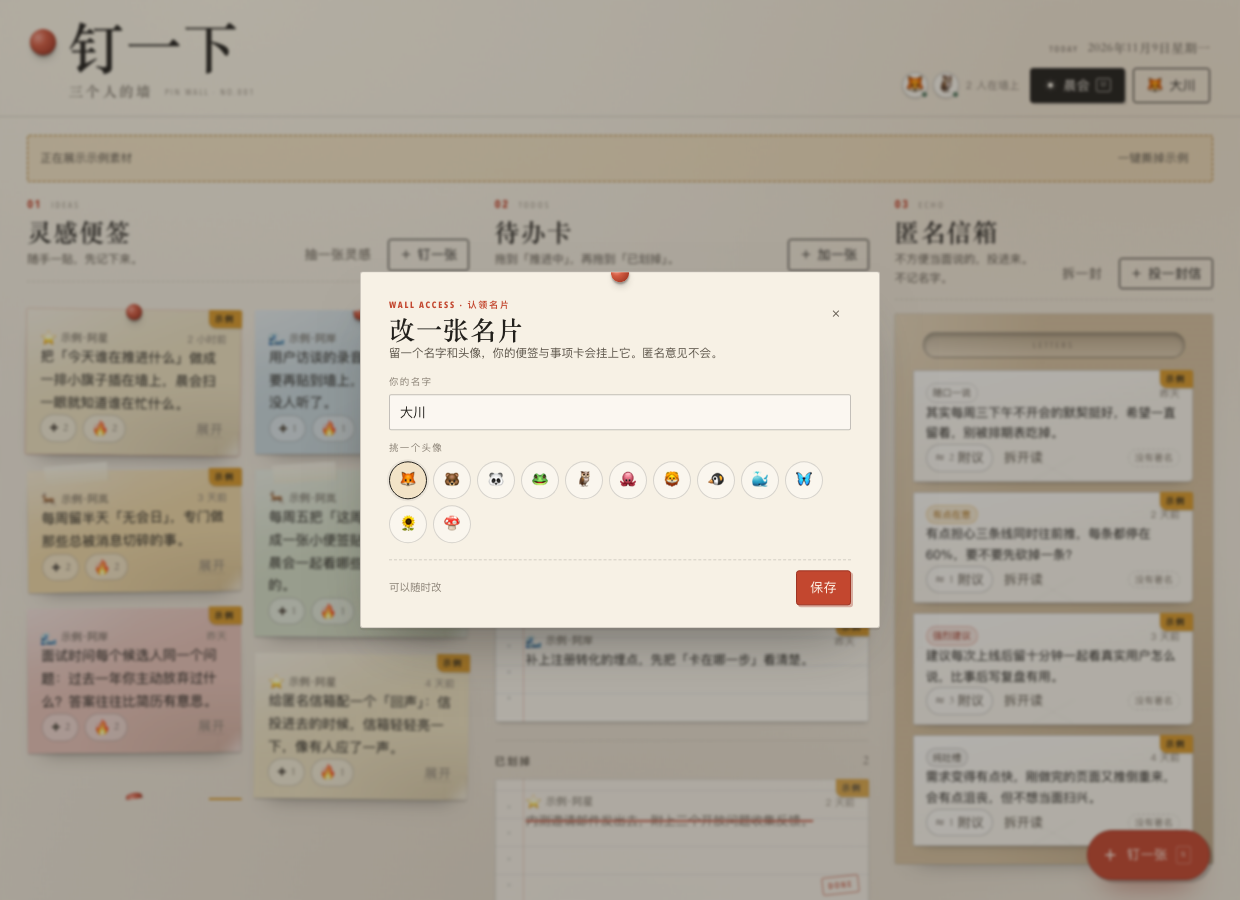
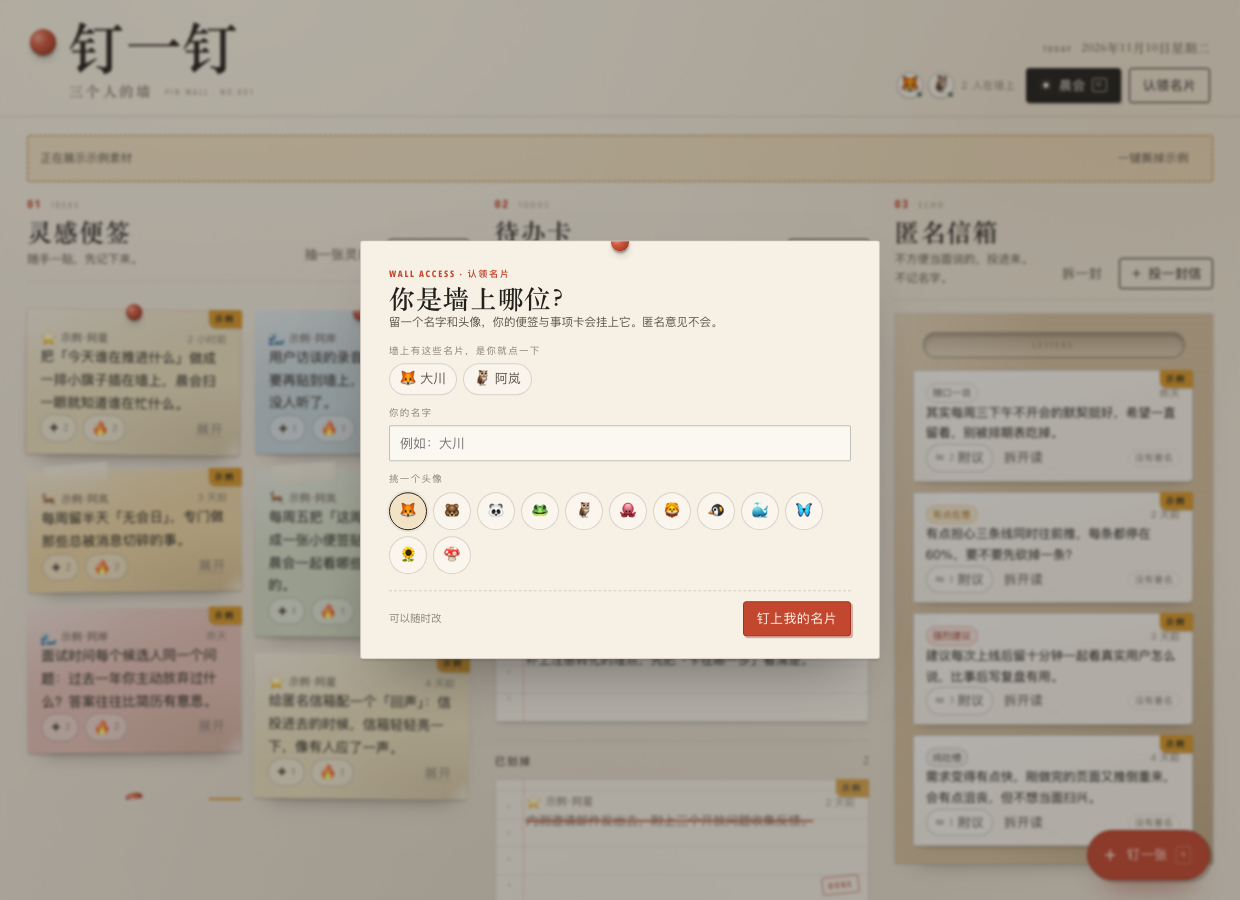
Rename product to 钉一钉 / Ding Wall, refresh screenshots and install docs

diff --git a/client.js b/client.js
@@ -1,5 +1,5 @@
 /*
- * 钉一下 · 三个人的墙 —— 浏览器半侧 bundle
+ * 钉一钉 · 三个人的墙 —— 浏览器半侧 bundle
  *
  * 形态：注册进 DSH 的 `main` 面板（key = ding-wall）与 `sidebar.panellist`
  * 图标（id = ding-wall），两者 id 相同即互相绑定。
@@ -24,8 +24,8 @@ window.__ModuleLoader__.load({
 
     /* ------------------------------------------------------------ 文案 */
     const ZH = {
-      sidebarLabel: '钉一下',
-      brand: '钉一下',
+      sidebarLabel: '钉一钉',
+      brand: '钉一钉',
       subtitle: '三个人的墙',
       newPin: '钉一张',
       morning: '晨会',
@@ -129,7 +129,7 @@ window.__ModuleLoader__.load({
       localHint: '数据只存在这台设备',
       noMembers: '墙上只有你',
       identityHint: '点右上角改名片',
-      morningTitle: '钉一下 · 晨报',
+      morningTitle: '钉一钉 · 晨报',
       morningIssue: '第 {n} 期',
       morningEditor: '编辑部：全体成员',
       headline: '今日头条',
@@ -389,7 +389,7 @@ window.__ModuleLoader__.load({
     /* ---------------------------------------------------------- 样式表 */
     const CSS = String.raw`
 /* ============================================================
-   钉一下 · 三个人的墙 —— 面板视觉层（复原网页版「暖纸工作室」）
+   钉一钉 · 三个人的墙 —— 面板视觉层（复原网页版「暖纸工作室」）
    纸感底色 / 宋体标题 / 便签 / 图钉 / 胶带 / 牛皮纸信箱 / 方格纸
    ============================================================ */
 .dw-root {
@@ -3216,7 +3216,7 @@ window.__ModuleLoader__.load({
             h(
               'div',
               null,
-              h('p', { className: 'dw-card__kicker' }, `NEW PIN · ${lang === 'zh' ? '钉一下' : 'DING'}`),
+              h('p', { className: 'dw-card__kicker' }, `NEW PIN · ${lang === 'zh' ? '钉一钉' : 'DING'}`),
               h('h2', { className: 'dw-card__title', id: 'dw-composer-title' }, titles[type]),
             ),
             h('button', { type: 'button', className: 'dw-close', onClick: onClose, 'aria-label': t('close') }, '×'),

diff --git a/lib/index.js b/lib/index.js
@@ -1,5 +1,5 @@
 /**
- * 钉一下 · 三个人的墙 —— 宿主半侧。
+ * 钉一钉 · 三个人的墙 —— 宿主半侧。
  *
  * 职责：
  *  1. 在 DSH 的 Web 服务上挂载 `/api/ding-wall/*` 前缀路由（面板同源调用）；
@@ -25,7 +25,7 @@ const PUBLIC_DIR = path.join(PACKAGE_ROOT, 'public');
 
 /** 插件身份：与 package.json 的 name 保持一致（client bundle 也用它）。 */
 export const PLUGIN_ID = 'ding-wall';
-export const PLUGIN_VERSION = '0.1.3';
+export const PLUGIN_VERSION = '0.1.4';
 
 export const name = PLUGIN_ID;
 /** 不强制依赖任何服务：Web 服务可能晚于本插件激活。 */

diff --git a/lib/config.js b/lib/config.js
@@ -1,5 +1,5 @@
 /**
- * 钉一下 · 三个人的墙 —— 插件配置。
+ * 钉一钉 · 三个人的墙 —— 插件配置。
  *
  * - serverUrl 为空：本地模式，数据存在本机 `$DSH_HOME/ding-wall/wall.json`；
  * - serverUrl 有值：共享模式，面板通过宿主代理请求该「墙服务」（团队墙），

diff --git a/README.zh-CN.md b/README.zh-CN.md
@@ -1,4 +1,4 @@
-# 钉一下 · Ding Wall
+# 钉一钉 · Ding Wall
 
 **给三个人的暖纸共享信息墙 —— 一个 DeepSeek Harness 面板插件。**
 
@@ -6,7 +6,7 @@
 
 [English](README.md) · [简体中文](README.zh-CN.md) · [让 Agent 安装](#让-agent-安装) · [手动安装](#手动安装) · [截图](#截图) · [功能](#功能)
 
-![钉一下面板](screenshots/panel-wide.png)
+![钉一钉面板](screenshots/panel-wide.png)
 
 ## 让 Agent 安装
 
@@ -14,27 +14,27 @@
 
 > **安装提示词（复制这一段）**
 >
-> 请帮我安装 DeepSeek Harness 插件 **钉一下**（`dsh-ding-wall`），仓库地址：https://github.com/Into-the-Numind/dsh-ding-wall
+> 请帮我安装 DeepSeek Harness 插件 **钉一钉**（`dsh-ding-wall`），仓库地址：https://github.com/Into-the-Numind/Ding-Wall
 >
 > 1. 把仓库克隆到一个**固定目录**，例如：
->    `git clone https://github.com/Into-the-Numind/dsh-ding-wall.git ~/dsh-plugins/dsh-ding-wall`
+>    `git clone https://github.com/Into-the-Numind/Ding-Wall.git ~/dsh-plugins/dsh-ding-wall`
 >    这个目录要保留，DeepSeek Harness 会从它加载插件，安装后不要删除或移动。
 > 2. 在这个 DeepSeek Harness 里把该目录安装为插件包：
 >    - 如果你有 `plugin_manager` 工具：调用 `install_bundle`，`target` 设为克隆下来的目录**绝对路径**（包含 `package.json` 的那一层），并确保它已启用；
 >    - 否则让我从「插件管理器 → 添加插件 → 本地目录」安装，或者在当前 DSH 版本支持 CLI 时执行 `dsh plugin --profile <profile> add link:<绝对路径>`。
 > 3. 确认插件包 `dsh-ding-wall` 已安装并启用。然后提醒我**完全退出并重启 DeepSeek Harness**——宿主侧代码在重启时加载，刷新页面不够。
-> 4. 重启后和我一起确认：侧栏出现红色图钉「钉一下」，点开能看到信息墙。
+> 4. 重启后和我一起确认：侧栏出现红色图钉「钉一钉」，点开能看到信息墙。
 >
 > 不要发布任何内容，也不要修改其他插件。最后把执行过的命令、警告和需要我检查的事项告诉我。
 
 ### 更短的一句话
 
-> 安装 DeepSeek Harness 插件 **https://github.com/Into-the-Numind/dsh-ding-wall** —— 克隆到固定目录、作为本地插件包安装，然后提醒我完全重启 DeepSeek Harness。
+> 安装 DeepSeek Harness 插件 **https://github.com/Into-the-Numind/Ding-Wall** —— 克隆到固定目录、作为本地插件包安装，然后提醒我完全重启 DeepSeek Harness。
 
 ### 怎么算装好了
 
 - `dsh-ding-wall` 出现在插件列表中，且处于启用状态；
-- **完全重启应用**后，侧栏出现红色图钉「钉一下」；
+- **完全重启应用**后，侧栏出现红色图钉「钉一钉」；
 - 点开能看到暖纸信息墙，首次进入会要求认领一张团队名片；
 - 默认本地模式不会发起任何网络请求。
 
@@ -77,14 +77,14 @@
 1. 克隆到一个固定目录：
 
    ```bash
-   git clone https://github.com/Into-the-Numind/dsh-ding-wall.git ~/dsh-plugins/dsh-ding-wall
+   git clone https://github.com/Into-the-Numind/Ding-Wall.git ~/dsh-plugins/dsh-ding-wall
    ```
 
 2. 打开 DeepSeek Harness 的**插件 → 添加插件 → 本地目录**，选择克隆下来的文件夹（包含 `package.json` 的那一层），启用插件。
 
 3. **完全退出并重启 DeepSeek Harness。**（宿主侧插件代码在启动时加载；刷新页面只会重载 UI。）
 
-4. 点击侧栏红色图钉「钉一下」。首次打开时认领你的团队名片。
+4. 点击侧栏红色图钉「钉一钉」。首次打开时认领你的团队名片。
 
 ### 更新
 
@@ -109,7 +109,7 @@ git pull
 
 ## 共享团队模式（可选）
 
-钉一下也可以作为一个小团队共享墙的界面，后端可以自托管。在 Harness 的 profile 补丁里配置——访问码只存在宿主侧，不会下发浏览器：
+钉一钉也可以作为一个小团队共享墙的界面，后端可以自托管。在 Harness 的 profile 补丁里配置——访问码只存在宿主侧，不会下发浏览器：
 
 ```yaml
 - id: ding-wall

diff --git a/README.md b/README.md
@@ -1,4 +1,4 @@
-# Ding Wall · 钉一下
+# Ding Wall · 钉一钉
 
 **A warm, paper-like shared pinboard for small teams — as a DeepSeek Harness panel plugin.**
 
@@ -14,27 +14,27 @@ Copy the prompt below into an AI agent that can work on your computer — DeepSe
 
 > **Install prompt (copy everything in this block)**
 >
-> Please install the DeepSeek Harness plugin **Ding Wall** (`dsh-ding-wall`) from https://github.com/Into-the-Numind/dsh-ding-wall.
+> Please install the DeepSeek Harness plugin **Ding Wall** (`dsh-ding-wall`) from https://github.com/Into-the-Numind/Ding-Wall.
 >
 > 1. Clone the repository into a permanent directory, for example:
->    `git clone https://github.com/Into-the-Numind/dsh-ding-wall.git ~/dsh-plugins/dsh-ding-wall`
+>    `git clone https://github.com/Into-the-Numind/Ding-Wall.git ~/dsh-plugins/dsh-ding-wall`
 >    Keep this directory — DeepSeek Harness loads the plugin from it. Do not delete or move it afterwards.
 > 2. Install that directory as a plugin bundle in DeepSeek Harness:
 >    - If you have the `plugin_manager` tool: call `install_bundle` with `target` set to the **absolute path of the cloned directory** (the folder containing `package.json`), then make sure the bundle is enabled.
 >    - Otherwise use Plugin Manager → Add plugin → local folder, or `dsh plugin --profile <profile> add link:<absolute-path>` if this DSH build provides that CLI.
 > 3. Confirm the bundle `dsh-ding-wall` is installed and enabled. Then tell me to **fully quit and restart DeepSeek Harness** — the host half of the plugin loads on restart (a page refresh is not enough).
-> 4. After my restart, verify with me that a red pin icon labeled **“钉一下 / Ding Wall”** appears in the sidebar and that opening it shows the wall.
+> 4. After my restart, verify with me that a red pin icon labeled **“钉一钉 / Ding Wall”** appears in the sidebar and that opening it shows the wall.
 >
 > Do not publish anything or modify other plugins. Report the commands you ran, any warnings, and what I should check.
 
 ### Even shorter
 
-> Install the DeepSeek Harness plugin at **https://github.com/Into-the-Numind/dsh-ding-wall** — clone it, add it as a local plugin bundle, then tell me to fully restart DeepSeek Harness.
+> Install the DeepSeek Harness plugin at **https://github.com/Into-the-Numind/Ding-Wall** — clone it, add it as a local plugin bundle, then tell me to fully restart DeepSeek Harness.
 
 ### What “done” looks like
 
 - `dsh-ding-wall` appears as an installed plugin bundle and is enabled;
-- after a **full app restart**, the sidebar shows a red pin **钉一下**;
+- after a **full app restart**, the sidebar shows a red pin **钉一钉**;
 - opening it shows the paper wall, and the first visit asks you to claim a team card;
 - no network requests are made in the default local mode.
 
@@ -77,14 +77,14 @@ Copy the prompt below into an AI agent that can work on your computer — DeepSe
 1. Clone the repo somewhere permanent:
 
    ```bash
-   git clone https://github.com/Into-the-Numind/dsh-ding-wall.git ~/dsh-plugins/dsh-ding-wall
+   git clone https://github.com/Into-the-Numind/Ding-Wall.git ~/dsh-plugins/dsh-ding-wall
    ```
 
 2. In DeepSeek Harness, open **Plugins → Add plugin → local directory** and select the cloned folder (the one containing `package.json`). Enable the plugin.
 
 3. **Fully quit and restart DeepSeek Harness.** (Host-side plugin code is loaded at startup; a page refresh only reloads the UI.)
 
-4. Click the red pin **钉一下** in the sidebar. On first open, claim your team card.
+4. Click the red pin **钉一钉** in the sidebar. On first open, claim your team card.
 
 ### Update
 
